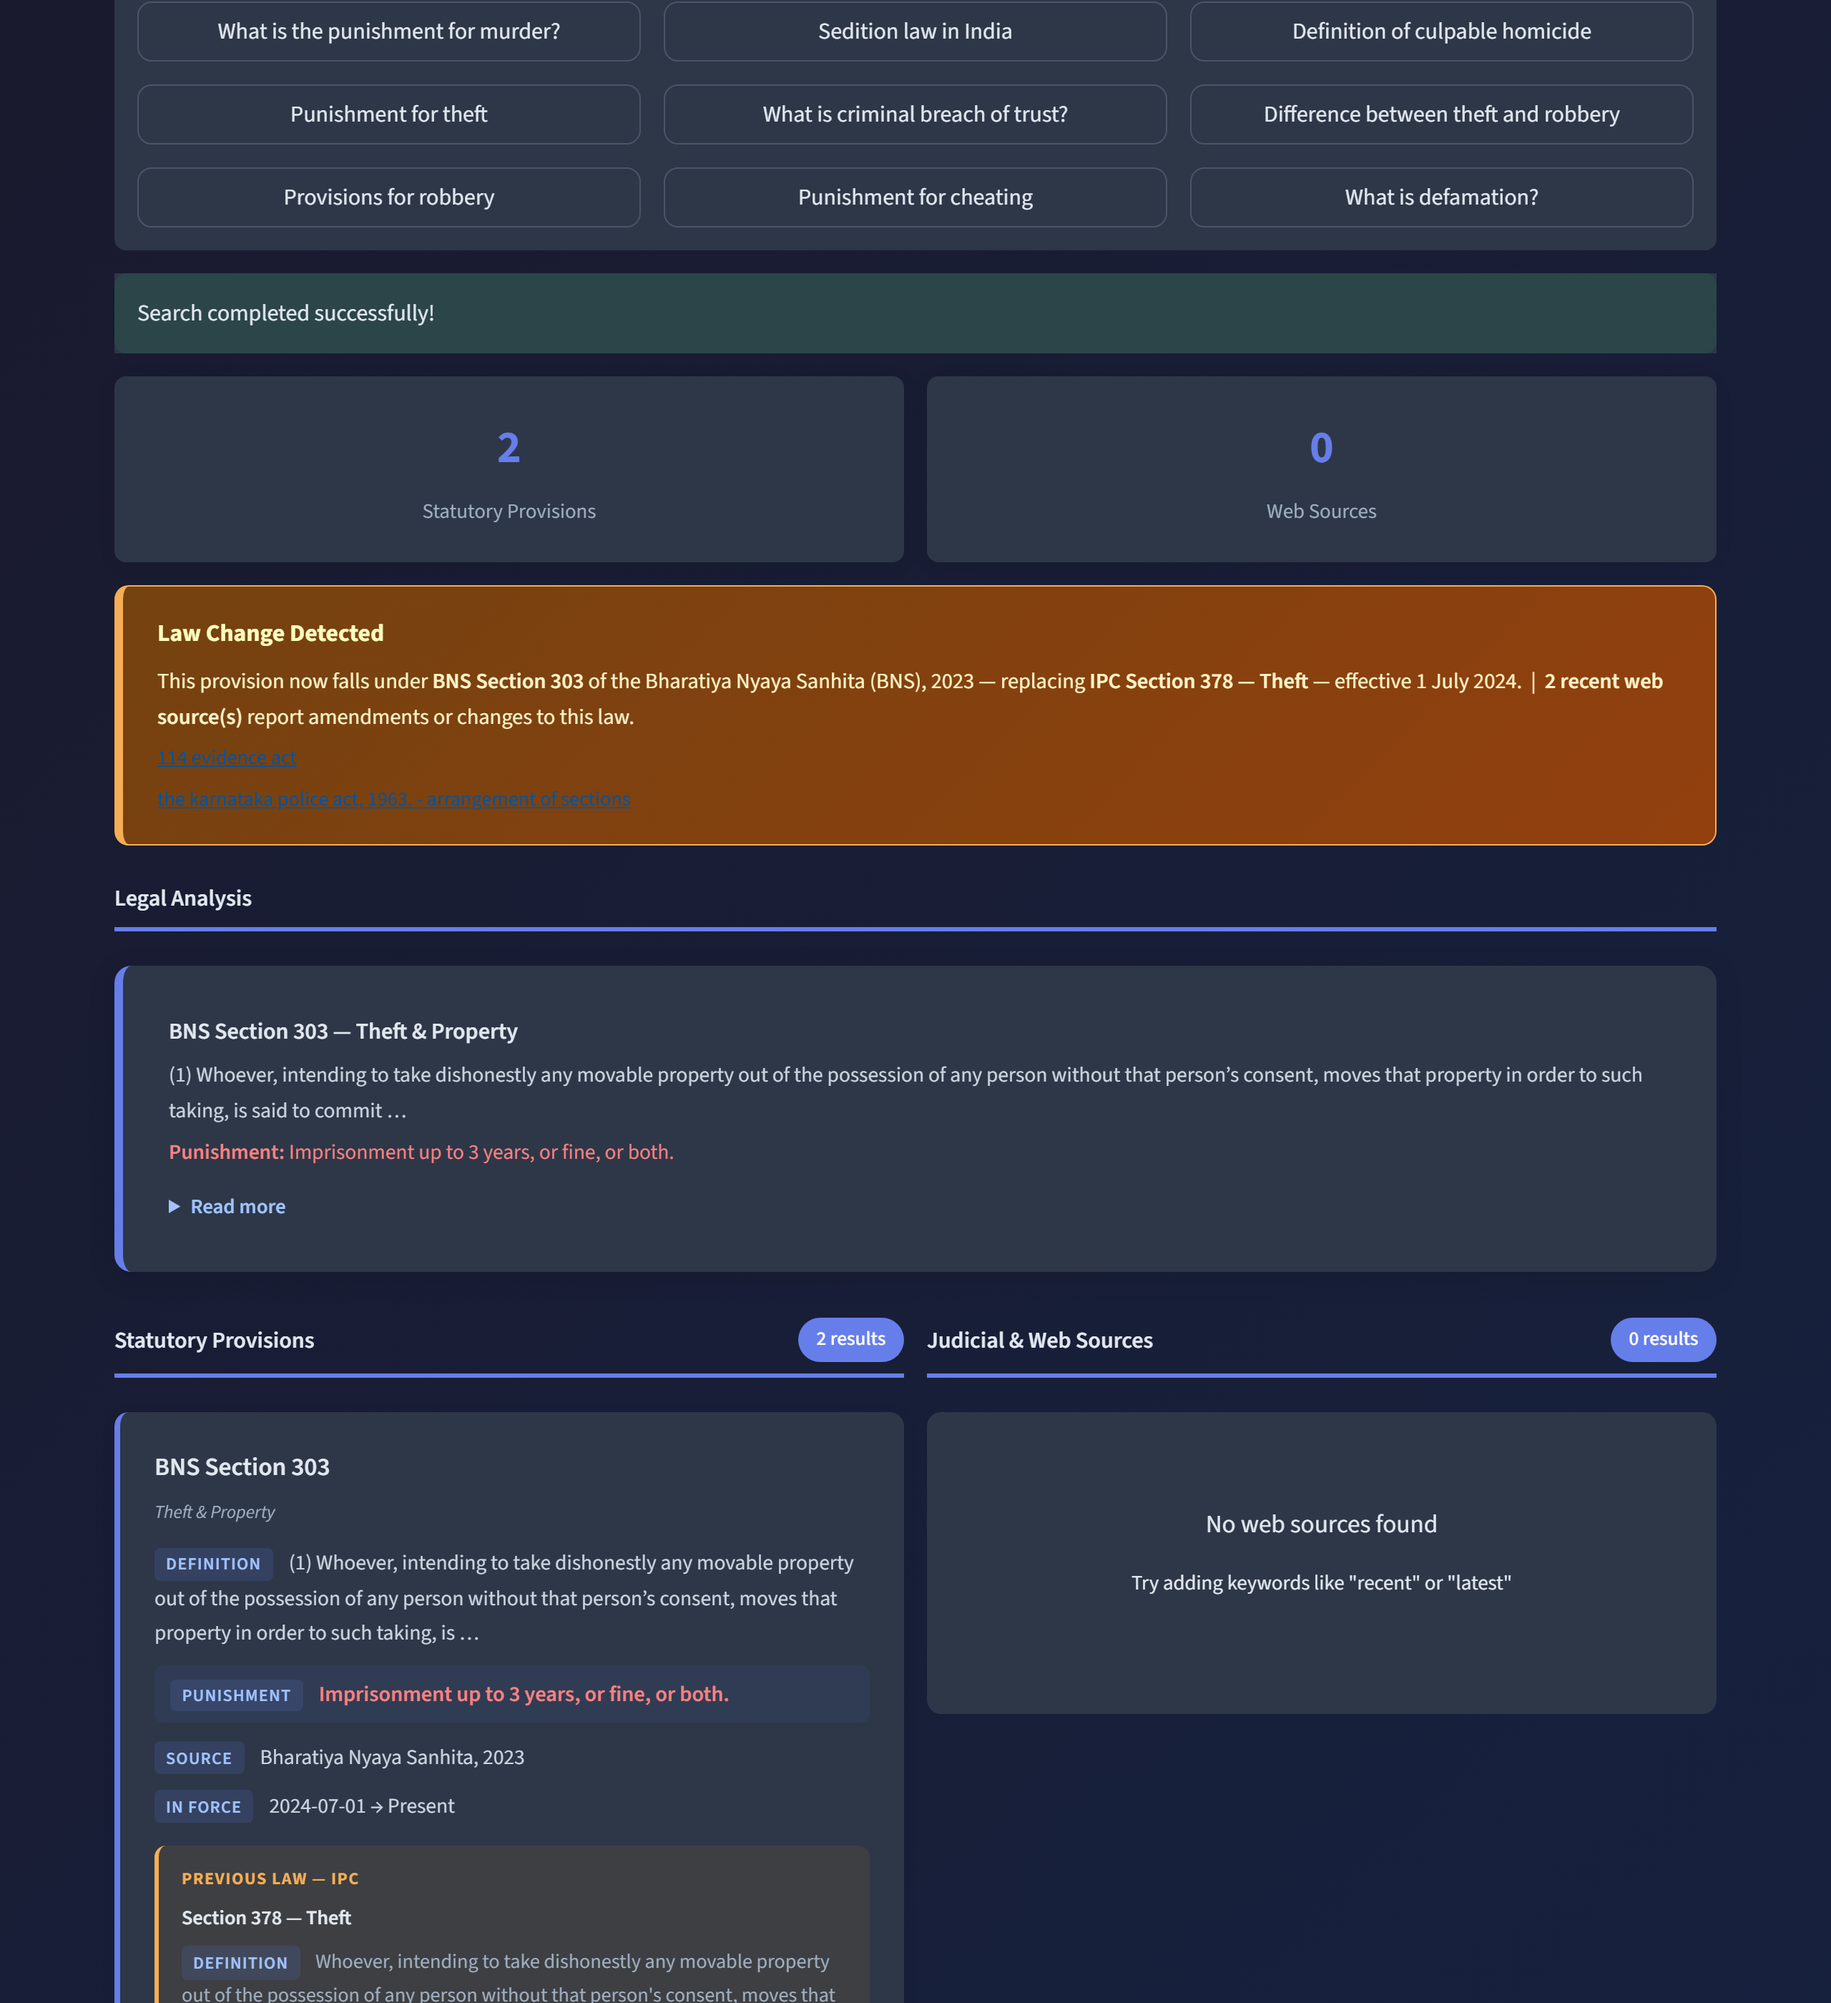
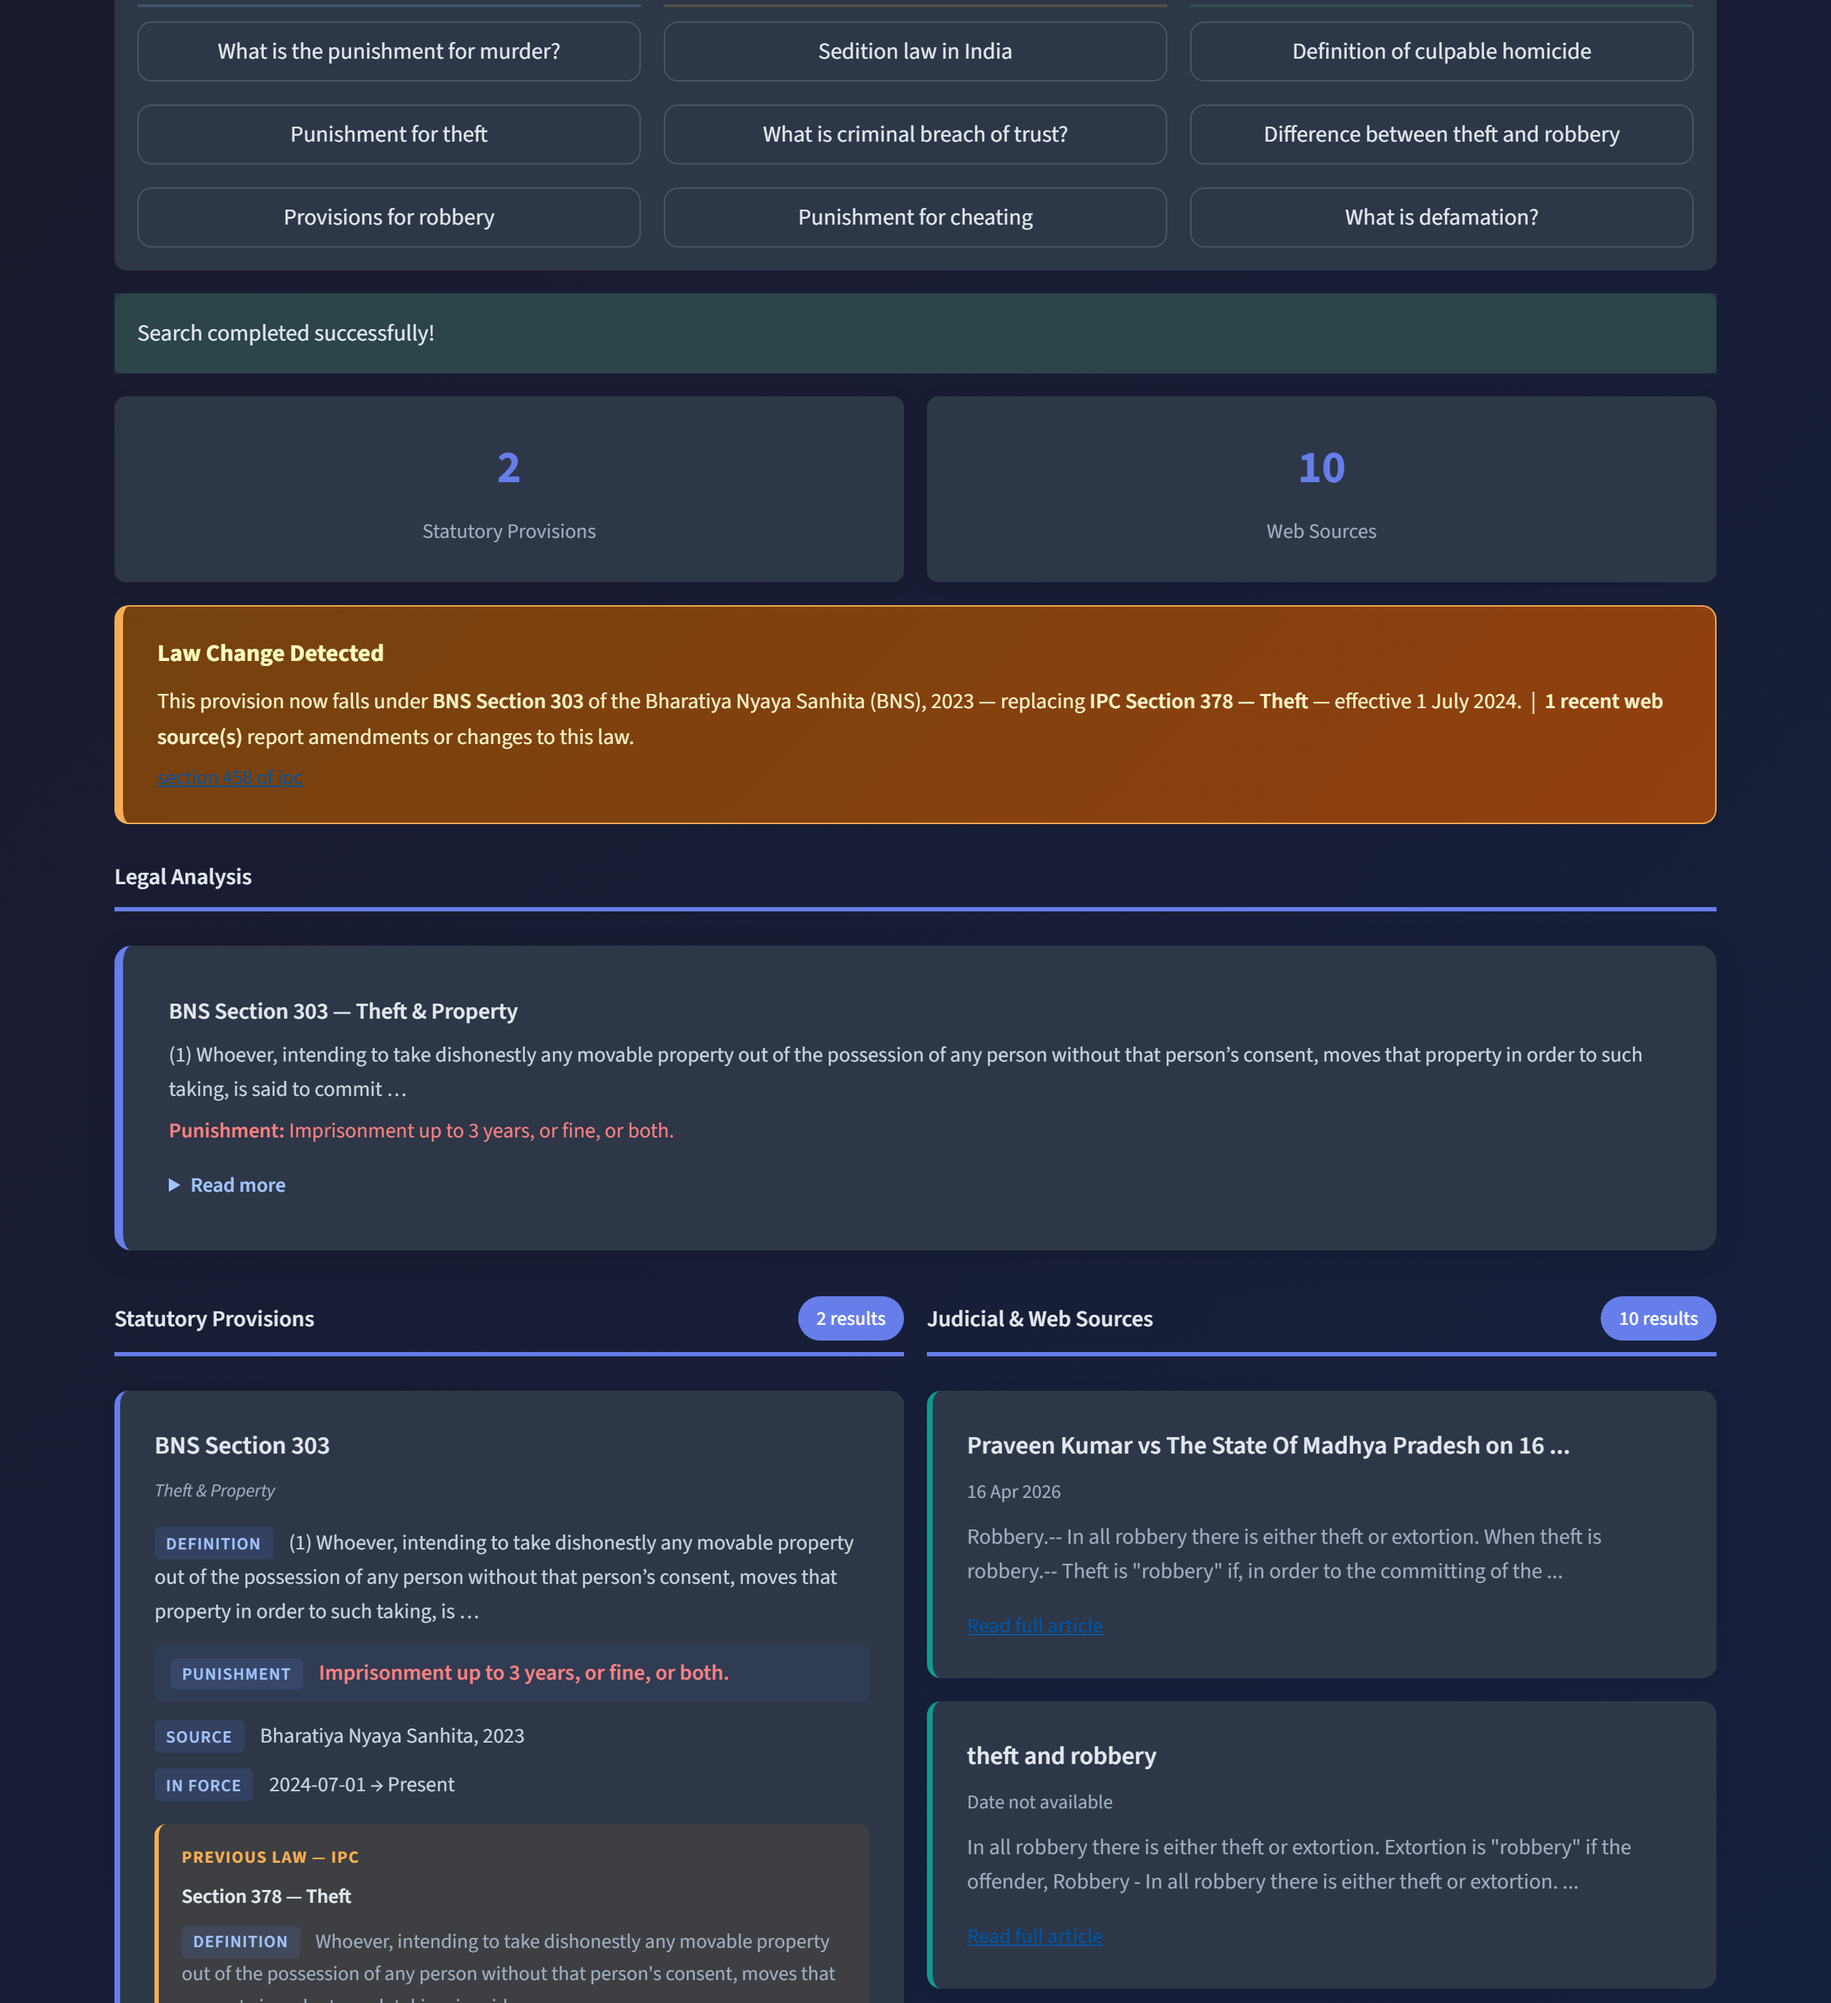
Add light-mode screenshot; show both themes in README
Home screen now shown side by side in dark and light mode. capture_screenshots.py
seeds localStorage['tl_theme'] to render either theme and regenerates all three
images (dark home, light home, dark result).

diff --git a/scripts/capture_screenshots.py b/scripts/capture_screenshots.py
@@ -30,11 +30,14 @@ APP_URL = sys.argv[1] if len(sys.argv) > 1 else "http://localhost:8501"
 RESULT_QUERY = "Difference between theft and robbery"
 
 
-def _new_page(pw, width=1280, height=1000):
+def _new_page(pw, theme="dark", width=1280, height=1000):
     browser = pw.chromium.launch()
     page = browser.new_page(
         viewport={"width": width, "height": height}, device_scale_factor=2
     )
+    # The app's theme is client-side, driven by localStorage['tl_theme'] which the
+    # JS bridge reads on load. Seed it before any page script runs.
+    page.add_init_script(f"try{{localStorage.setItem('tl_theme','{theme}')}}catch(e){{}}")
     return browser, page
 
 
@@ -46,21 +49,21 @@ def _wait_ready(page):
     time.sleep(2)  # let fonts/animations settle
 
 
-def capture_home(pw):
-    """Landing page: header, toggle, query input, and example queries."""
-    browser, page = _new_page(pw)
+def capture_home(pw, theme="dark", filename="screenshot.png"):
+    """Landing page (header, toggle, query input, example queries) in one theme."""
+    browser, page = _new_page(pw, theme=theme)
     try:
         _wait_ready(page)
-        out = DOCS / "screenshot.png"
+        out = DOCS / filename
         page.screenshot(path=str(out))
         print("saved", out.relative_to(REPO_ROOT))
     finally:
         browser.close()
 
 
-def capture_result(pw):
+def capture_result(pw, theme="dark", filename="screenshot-result.png"):
     """A query result: Law Change banner, analysis, and statutory provisions."""
-    browser, page = _new_page(pw)
+    browser, page = _new_page(pw, theme=theme)
     try:
         _wait_ready(page)
         page.locator("input[type='text'], textarea").first.fill(RESULT_QUERY)
@@ -76,7 +79,7 @@ def capture_result(pw):
         time.sleep(1)
         page.evaluate("(y) => window.scrollTo(0, y)", int(box["y"]) - 20)
         time.sleep(1)
-        out = DOCS / "screenshot-result.png"
+        out = DOCS / filename
         page.screenshot(path=str(out))
         print("saved", out.relative_to(REPO_ROOT))
     finally:
@@ -86,8 +89,11 @@ def capture_result(pw):
 def main():
     DOCS.mkdir(exist_ok=True)
     with sync_playwright() as pw:
-        capture_home(pw)
-        capture_result(pw)
+        # Home screen in both themes (shown side by side in the README).
+        capture_home(pw, theme="dark", filename="screenshot.png")
+        capture_home(pw, theme="light", filename="screenshot-light.png")
+        # Query result (dark) demonstrating the Law Change banner + provisions.
+        capture_result(pw, theme="dark", filename="screenshot-result.png")
 
 
 if __name__ == "__main__":

diff --git a/README.md b/README.md
@@ -8,7 +8,14 @@ Indian Penal Code (IPC, 1860) was replaced by the Bharatiya Nyaya Sanhita
 user-selected date. It also surfaces the IPC ↔ BNS counterpart for each provision
 and can pull recent judicial/web sources via SerpAPI.
 
-![Time-Aware Legal Assistant — home screen](docs/screenshot.png)
+The home screen ships with a client-side day/night theme toggle:
+
+<p align="center">
+  <img src="docs/screenshot.png" alt="Home screen (dark mode)" width="49%" />
+  <img src="docs/screenshot-light.png" alt="Home screen (light mode)" width="49%" />
+</p>
+
+<p align="center"><em>Home screen — dark and light themes</em></p>
 
 A query returns the law in force on the selected date, a "Law Change Detected" banner
 mapping the old IPC section to its new BNS counterpart, a grounded analysis, and the
